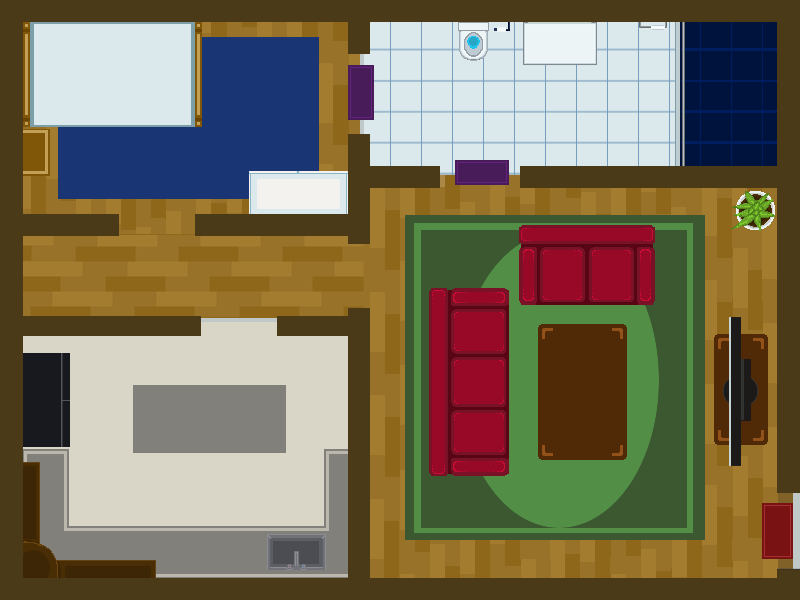
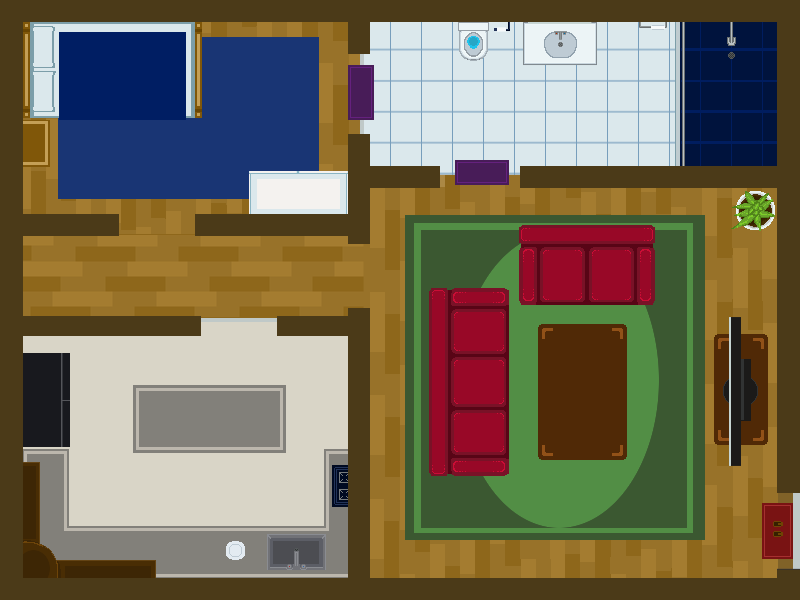
Breakfast finished
A series of tasks to eat breakfast. Get pancakes from fride, put them in
toaster, get plate, wait for cooking to finish, get panacked out, and wait
while you eating them

diff --git a/Assets/Scripts/Actions/Toaster.cs b/Assets/Scripts/Actions/Toaster.cs
@@ -1,0 +1,58 @@
+using UnityEngine;
+using UnityEngine.UI;
+using System.Collections;
+
+public class Toaster : MonoBehaviour {
+
+	Slider slide;
+	bool triggered, entered;
+
+	public GameObject plate, eating;
+	private bool pickedUp;
+
+	void Start () {
+		slide = GetComponentInChildren<Slider>();
+		gameObject.SetActive (false);
+		GameObject.Find ("Toaster_Object").transform.FindChild ("Pancakes").GetComponent<Renderer> ().enabled = false;
+	}
+	
+	// Update is called once per frame
+	void Update () {
+		if (entered) {
+			if (slide.value < slide.maxValue) {
+				slide.value += (1/10f) * Time.deltaTime;
+			}
+		}
+		if (triggered) {
+			if (slide.value >= slide.maxValue) {
+				if (pickedUp) {
+					GameObject.Find ("Player").transform.FindChild ("Pancakes").GetComponent<Renderer> ().enabled = true;
+					GameObject.Find ("Toaster_Object").transform.FindChild ("Pancakes").GetComponent<Renderer> ().enabled = false;
+					eating.SetActive (true);
+					plate.SetActive (false);
+					gameObject.SetActive (false);
+				}
+			} 
+		}
+
+	}
+
+	void OnTriggerEnter2D(Collider2D col){
+		if (col.gameObject.tag == "Player") {
+			triggered = true;
+			entered = true;
+			GameObject.Find ("Player").transform.FindChild ("Pancakes").GetComponent<Renderer> ().enabled = false;
+			GameObject.Find ("Toaster_Object").transform.FindChild ("Pancakes").GetComponent<Renderer> ().enabled = true;
+			plate.SetActive (true);
+		}
+	}
+
+	void OnTriggerExit2D(Collider2D col) {
+		triggered = false;
+	}
+
+	void PickedUp() {
+		pickedUp = true;
+	}
+
+}

diff --git a/Assets/Scripts/Actions/Eating.cs b/Assets/Scripts/Actions/Eating.cs
@@ -1,0 +1,32 @@
+using UnityEngine;
+using UnityEngine.UI;
+using System.Collections;
+
+public class Eating : MonoBehaviour {
+
+	Slider slide;
+
+	void Start () {
+		slide = GetComponentInChildren<Slider>();
+		gameObject.transform.parent.gameObject.SetActive (false);
+	}
+	
+	// Update is called once per frame
+	void Update () {
+		print (GameObject.Find ("Player").GetComponent<Rigidbody2D> ().velocity.magnitude);
+		if (GameObject.Find("Player").GetComponent<Rigidbody2D>().velocity.magnitude < 1) {
+			if (slide.value < slide.maxValue) {
+				slide.value += (1/10f) * Time.deltaTime;
+			}
+			if (slide.value >= slide.maxValue) {
+				GameObject.Find ("Player").GetComponent<GameState> ().objectiveComplete = true;
+				GameObject.Find ("Player").transform.FindChild ("Pancakes").GetComponent<Renderer> ().enabled = false;
+				GameObject.Find ("Player").transform.FindChild ("Plate").GetComponent<Renderer> ().enabled = false;
+				gameObject.SetActive (false);
+			} 
+		} else {
+			slide.value -= (1/10f) * Time.deltaTime;
+		}
+	}
+
+}

diff --git a/Assets/Scripts/GameState.cs b/Assets/Scripts/GameState.cs
@@ -8,7 +8,7 @@ public class GameState : MonoBehaviour {
 	State gameState;
 	GameObject announce;
 
-	public GameObject shower, sink, dresser, toaster, door;
+	public GameObject shower, sink, dresser, fridge, door;
 
 	bool started = false, ended = false;
 	public bool objectiveComplete = false;
@@ -40,7 +40,7 @@ public class GameState : MonoBehaviour {
 					gameObject.SendMessage ("OnResumeGame", SendMessageOptions.DontRequireReceiver);
 					GameObject.Find ("Bed").GetComponent<Renderer> ().enabled = false;
 
-					gameState = State.shower;
+					gameState = State.breakfeast;
 					started = false;
 					ended = false;
 				}
@@ -102,7 +102,7 @@ public class GameState : MonoBehaviour {
 			if (!started) {
 				announce.GetComponent<Canvas> ().enabled = true;
 				announce.GetComponentInChildren<Text> ().text = "Nice!\nLet's make something to eat!";
-				toaster.SetActive (true);
+				fridge.SetActive (true);
 
 				StartCoroutine (HideObjective ());
 				started = true;

diff --git a/Assets/Scripts/Actions/Fridge.cs b/Assets/Scripts/Actions/Fridge.cs
@@ -1,0 +1,24 @@
+using UnityEngine;
+using System.Collections;
+
+public class Fridge : MonoBehaviour {
+
+	public GameObject toaster;
+
+	void Start () {
+		gameObject.SetActive (false);
+		GameObject.Find ("Player").transform.FindChild ("Pancakes").GetComponent<Renderer> ().enabled = false;
+	}
+		
+	void Update () {
+		
+	}
+
+	void OnTriggerEnter2D(Collider2D col){
+		if (col.gameObject.tag == "Player") {
+			GameObject.Find ("Player").transform.FindChild ("Pancakes").GetComponent<Renderer> ().enabled = true;
+			toaster.SetActive (true);
+			gameObject.SetActive (false);
+		}
+	}
+}

diff --git a/Assets/Scripts/Plate.cs b/Assets/Scripts/Plate.cs
@@ -1,0 +1,22 @@
+using UnityEngine;
+using System.Collections;
+
+public class Plate : MonoBehaviour {
+
+	void Start () {
+		gameObject.SetActive (false);
+		GameObject.Find("Player").transform.FindChild("Plate").GetComponent<Renderer> ().enabled = false;
+	}
+
+	void Update () {
+
+	}
+
+	void OnTriggerEnter2D(Collider2D col){
+		if (col.gameObject.tag == "Player") {
+			GameObject.Find ("Player").transform.FindChild ("Plate").GetComponent<Renderer> ().enabled = true;
+			GameObject.Find ("Toaster").SendMessage ("PickedUp");
+			gameObject.SetActive (false);
+		}
+	}
+}

diff --git a/Assets/Scripts/Dummy.cs b/Assets/Scripts/Dummy.cs
@@ -1,0 +1,11 @@
+using UnityEngine;
+using System.Collections;
+
+public class Dummy : MonoBehaviour {
+
+	void Update () {
+		if (!GameObject.Find ("Player").GetComponent<Player> ().paused) {
+			transform.position = new Vector3 (GameObject.Find ("Player").transform.position.x, GameObject.Find ("Player").transform.position.y, -0.1f);
+		}
+	}
+}

diff --git a/Assets/Scripts/Bullet.cs b/Assets/Scripts/Bullet.cs
@@ -16,6 +16,7 @@ public class Bullet : MonoBehaviour {
 	void OnTriggerEnter2D(Collider2D col) {
 		if (col.tag == "Player") {
 			GameObject.Find("Game Over Menu").SendMessage ("Kill");
+			Destroy (gameObject);
 		}
 	}
 }
